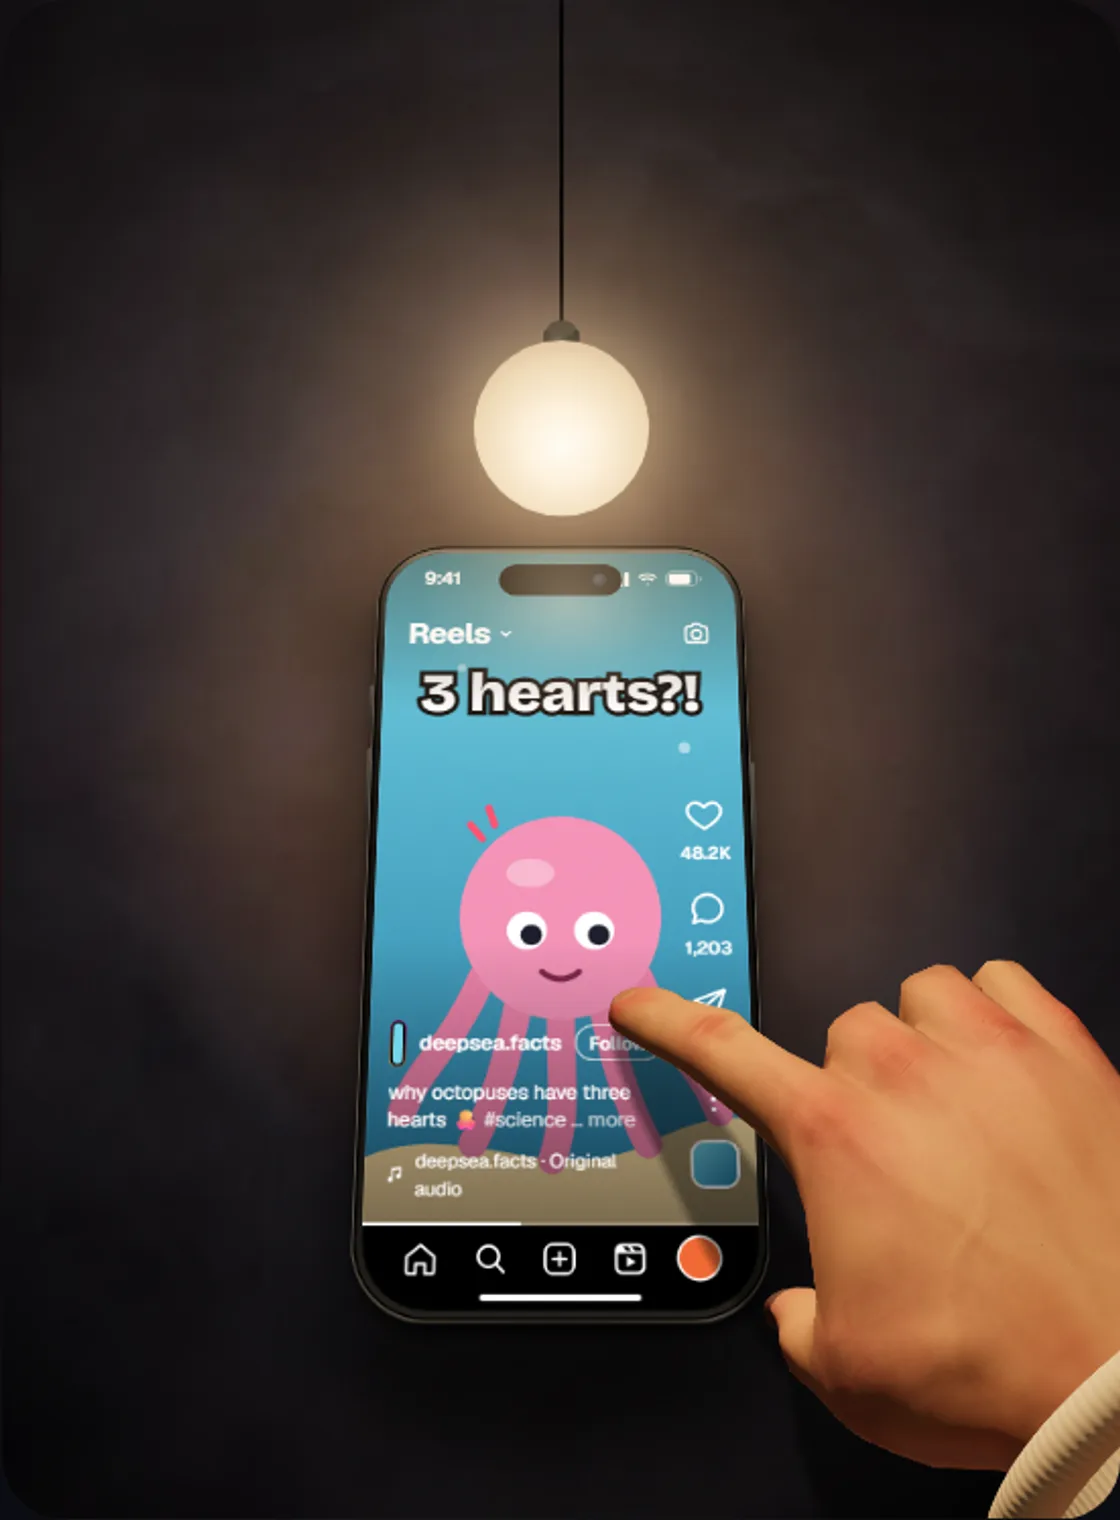
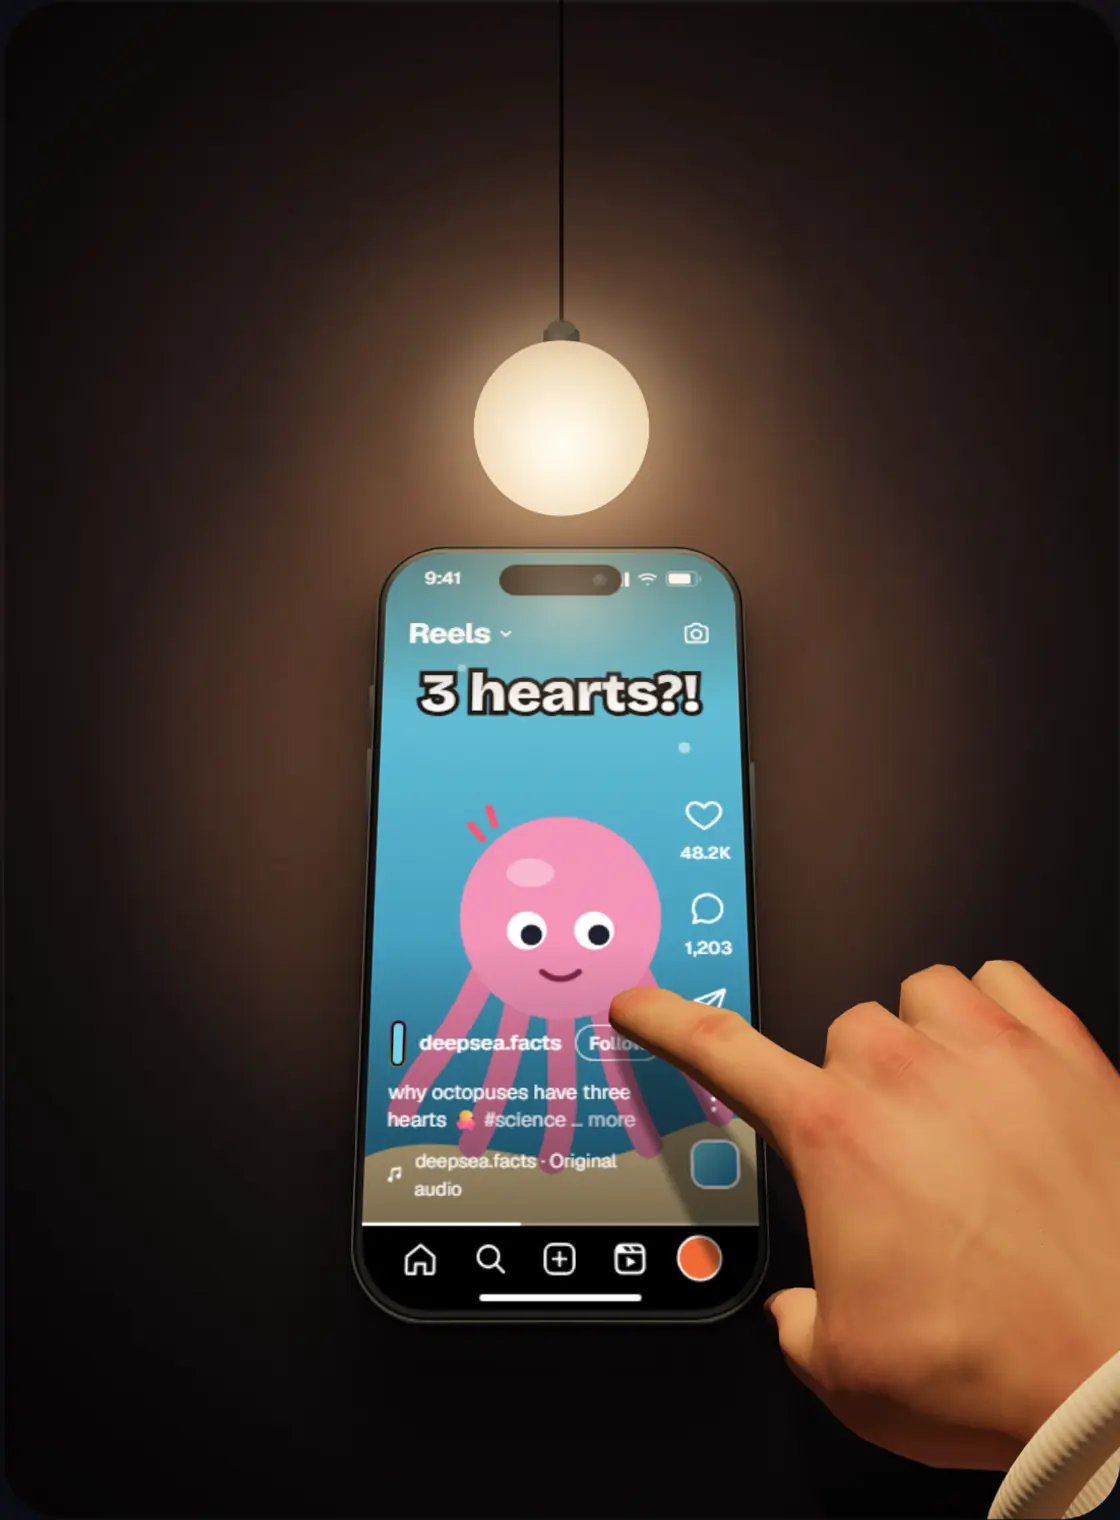
Refactor LampScene and Table components for improved background handling and lighting effects
- Updated LampScene to use a new background class and removed redundant background styles.
- Refactored Table component to simplify the lighting pool logic and removed static textures, enhancing the dynamic lighting effect.
- Added new hero background images in JPG and WEBP formats to support the updated design.

diff --git a/src/components/hero/lamp-scene/Table.tsx b/src/components/hero/lamp-scene/Table.tsx
@@ -1,27 +1,27 @@
 /**
- * SOURCE OF TRUTH KEYWORDS: Table, ONE_PLANE_FOR_THE_WHOLE_SCENE
+ * SOURCE OF TRUTH KEYWORDS: Table, LIGHT_IS_THE_ONLY_THING_LEFT, poolRef,
+ *   lampSceneBg, hero-bg, vignette, light pool
  *
- * WHAT:  The room the scene happens in: a dark mottled tabletop seen at a
- *        slant, the pool of warm light the lamp throws on it, and the vignette
- *        that closes the rest of the room down to black.
+ * WHAT:  What the lamp DOES to the room: the pool of warm light it throws,
+ *        which slides as the lamp swings, and the vignette that closes the
+ *        rest of the card down to black.
  *
- * WHY:   ONE_PLANE_FOR_THE_WHOLE_SCENE. The surface is a flat image rotated
- *        33° in the SAME perspective context the phone uses, so it recedes on
- *        exactly the plane the phone is lying on. A tabletop faked with a
- *        gradient would have to be re-faked every time the phone moved; this
- *        one is simply the surface, and everything else in the scene is
- *        positioned against it.
+ * WHY:   LIGHT_IS_THE_ONLY_THING_LEFT. The room itself is no longer built
+ *        here. It used to be a mottled texture rotated into the phone's 33°
+ *        plane plus a radial haze faking the air around the bulb — two
+ *        static fakes of a lit room, maintained by hand. The room is now one
+ *        photographic backdrop on the card itself (`.lampSceneBg`, see
+ *        globals.css), so everything static left this file and only the
+ *        MOVING light stayed.
  *
- *        THE_CARD_IS_NOT_A_ROOM. It used to be walnut planks, which read as a
- *        photograph of a table pasted behind the UI and fought the black page
- *        around it. The base is now the page's own `--background`, so the card
- *        has no edge of its own, and the only thing on it is the mottled
- *        texture catching the lamp.
+ *        The pool has to be a layer rather than part of the backdrop because
+ *        it TRACKS the lamp — it is the scene's largest cue that the globe is
+ *        a light source, and it moves 2.1× the globe's own travel, which is
+ *        the parallax of something lit from above. A baked-in pool would sit
+ *        still while the lamp swung over it and kill the illusion outright.
  *
- *        The light pool is a separate layer rather than part of the texture
- *        because it has to TRACK the lamp — it is the scene's largest cue
- *        that the globe is a light source, and it moves 2.1× the globe's own
- *        travel, which is the parallax of something lit from above.
+ *        Both layers are `screen` / pure black so they only ever add light or
+ *        take it away. Neither paints a colour of its own over the backdrop.
  * WHERE: The back two layers of LampScene, under the phone.
  */
 
@@ -30,55 +30,9 @@ import * as React from "react";
 export function Table({ poolRef }: { poolRef: React.Ref<HTMLDivElement> }) {
   return (
     <>
-      <div
-        aria-hidden="true"
-        className="absolute inset-0"
-        style={{
-          perspective: "1400px",
-          perspectiveOrigin: "280px 170px",
-          background: "var(--background)",
-        }}
-      >
-        {/* TEXTURE_IS_ON_THE_PLANE. The tabletop itself — one mottled image
-            rotated into the same 33° plane the phone lies on, so it is
-            foreshortened WITH the phone rather than floating flat behind it.
-            It is dark by design: the lamp's pool below is what finds the
-            mottling, so the surface reads as lit rather than as a picture of
-            a surface. */}
-        <div
-          aria-hidden="true"
-          className="absolute"
-          style={{
-            left: -520,
-            top: -700,
-            width: 1600,
-            height: 1900,
-            transformOrigin: "800px 1158px",
-            transform: "rotateX(33deg)",
-            background:
-              "url(/hero/table-surface.webp) 0 0/1600px 2000px no-repeat",
-          }}
-        />
-      </div>
-
-      {/* AIR_AROUND_THE_BULB. A soft warm haze centred on the globe, in the
-          card's own flat plane rather than the table's. With the planks gone
-          the bulb had nothing above the table to light, so the top third went
-          dead black and the lamp read as a sticker; this is the light in the
-          air around it. `screen`, so it only ever adds. */}
-      <div
-        aria-hidden="true"
-        className="absolute inset-0"
-        style={{
-          mixBlendMode: "screen",
-          background:
-            "radial-gradient(circle at 50% 27%, rgba(255,200,140,0.18), rgba(255,180,110,0.05) 38%, transparent 62%)",
-        }}
-      />
-
       {/* The pool of lamplight on the table. `screen` so it ADDS to the
-          surface instead of painting over it, which is the difference between
-          a lit table and a table with a bright shape on it. */}
+          backdrop instead of painting over it, which is the difference
+          between a lit table and a table with a bright shape on it. */}
       <div
         ref={poolRef}
         aria-hidden="true"
@@ -101,12 +55,19 @@ export function Table({ poolRef }: { poolRef: React.Ref<HTMLDivElement> }) {
         />
       </div>
 
+      {/* The card's own falloff to black. Lighter than it was (0.8 → 0.72):
+          the backdrop arrives with a vignette already in it, and the old one
+          stacked on top crushed the corners to flat black and ate the
+          image's edges. It cannot go much lighter than this, though — the
+          backdrop's corners are a warm black and the page's are a cool one,
+          and without the falloff reaching them the card shows as a faintly
+          brown rectangle on the page. */}
       <div
         aria-hidden="true"
         className="absolute inset-0"
         style={{
           background:
-            "radial-gradient(ellipse 78% 66% at 50% 46%, rgba(0,0,0,0) 40%, rgba(0,0,0,0.8) 100%)",
+            "radial-gradient(ellipse 78% 66% at 50% 46%, rgba(0,0,0,0) 42%, rgba(0,0,0,0.72) 100%)",
         }}
       />
     </>

diff --git a/src/app/globals.css b/src/app/globals.css
@@ -2899,6 +2899,52 @@ html:has([data-app-banner]) {
   }
 }
 
+/* SOURCE OF TRUTH KEYWORDS: lampSceneBg, hero-bg, HERO_BG_IS_ONE_IMAGE,
+ *   LampScene, Table, image-set, lamp scene backdrop
+ *
+ * WHAT:  The hero scene card's backdrop — one image of a warm glow in a dark
+ *        room, sized to cover the card.
+ *
+ * WHY:   HERO_BG_IS_ONE_IMAGE. The card used to build its room out of CSS: a
+ *        mottled texture rotated into the table's 33° plane, plus a radial
+ *        haze faking the air around the bulb. Two fakes that had to be
+ *        re-tuned against each other every time anything in the scene moved.
+ *        The image already IS a lit room, so the scene only has to sit in it.
+ *
+ *        It lives in CSS rather than an inline style because the fallback
+ *        chain below needs `@supports`, which a style prop cannot express.
+ *        The plain `url()` is what every browser gets; `image-set` only
+ *        overrides it where the browser can parse it; and `--background`
+ *        under both is what shows if neither image loads.
+ *
+ *        The glow sits ~30% down the image and the lamp's globe ~28% down
+ *        the card, so this lands the two on each other: the card reads as
+ *        lit BY the lamp rather than as a lamp pasted onto a picture.
+ * WHERE: The scene root in src/components/hero/lamp-scene/LampScene.tsx. */
+.lampSceneBg {
+  background-color: var(--background);
+  background-image: url("/hero-bg.webp");
+  background-position: center 30%;
+  background-size: cover;
+  background-repeat: no-repeat;
+}
+
+/* The negotiated form, behind '@supports' rather than stacked on the rule
+   above: Lightning CSS deletes a plain 'url()' sitting directly in front of
+   an 'image-set()' as redundant, which would take the fallback with it. In
+   its own rule the fallback survives, and only a browser that can parse
+   'image-set' ever overrides it — every one of which can also decode the
+   webp, so the jpg is there for completeness rather than for a browser we
+   expect to meet. */
+@supports (background-image: image-set(url("/hero-bg.webp") type("image/webp"))) {
+  .lampSceneBg {
+    background-image: image-set(
+      url("/hero-bg.webp") type("image/webp"),
+      url("/hero-bg.jpg") type("image/jpeg")
+    );
+  }
+}
+
 /* SOURCE OF TRUTH KEYWORDS: lampScene, reelBob, reelWave, reelSway,
  * lampSwingBtn, lampHitBtn, THE_REELS_ARE_VIDEO, LAMP_SCENE_MOTION
  *

diff --git a/src/components/hero/lamp-scene/LampScene.tsx b/src/components/hero/lamp-scene/LampScene.tsx
@@ -594,15 +594,11 @@ export default function LampScene({ className }: LampSceneProps) {
           onPointerDown={onPointerDown}
           onPointerMove={onPointerMove}
           onPointerLeave={onPointerLeave}
-          className="lampScene relative isolate overflow-hidden text-white"
+          className="lampScene lampSceneBg relative isolate overflow-hidden text-white"
           style={{
             width: SCENE_W,
             height: SCENE_H,
             borderRadius: 30,
-            /* The same colour as the page outside the card, so the card has
-               no background of its own — only the lamp, the surface it lights
-               and the phone on it. */
-            background: "var(--background)",
             boxShadow: "inset 0 0 0 1px rgba(255,255,255,0.08)",
             transformOrigin: "top left",
           }}

diff --git a/design.md b/design.md
@@ -286,7 +286,7 @@ can play with.
 - **It is an ILLUSTRATION, so it does not use theme tokens.** This is the one
   deliberate exception to §2's "never hardcode theme colours": the scene is a
   picture of a dark room lit by a warm bulb, the way a photograph would be. It
-  does not invert with the theme, and every colour in it (the table surface,
+  does not invert with the theme, and every colour in it (the backdrop image,
   lamp `#ffcf96`, the phone's metal gradients) is a property of the depicted
   object, not of the UI. Nothing outside the 560×760 frame does this.
 - **Sizing.** The scene is laid out at 560×760 and `scale()`d to its column —
@@ -295,20 +295,30 @@ can play with.
   560/760` and `overflow: hidden`, so the box is reserved on the first paint
   (no layout shift) and the full-size layout box cannot push the grid column
   wider than its share.
-- **The card has no background of its own.** Its base is `var(--background)`,
-  the same colour as the page outside it, so the scene reads as a lit object
-  floating on the page rather than a photograph in a frame. The walnut planks
-  this replaces (`walnut.webp`, removed 2026-11-25) fought the black page and
-  made the card an obvious rectangle — **do not reintroduce a surround.**
-- **The tabletop is one layer:** `table-surface.webp`, a dark mottled image
-  rotated into the same 33° plane the phone lies on, so it is foreshortened
-  *with* the phone. It is deliberately dark (mean ~37/255) — the lamp's pool
-  and the warm haze are what find the mottling, so the surface reads as lit
-  rather than as a picture of a surface.
-- **Two `screen` layers do the lighting**: a soft warm haze centred on the
-  globe (in the card's flat plane — with the planks gone the bulb had nothing
-  above the table to light, and the top third went dead black), and the light
-  pool on the table itself, which tracks the lamp.
+- **The card's backdrop is one image, not CSS.** `.lampSceneBg` in
+  `globals.css` puts `/hero-bg.webp` on the scene root: a photographic dark
+  room with a warm glow ~30% down, `cover`, positioned `center 30%` so the
+  glow sits on the lamp's globe (~28% down the card). `--background` is under
+  it, and an `@supports` block upgrades it to `image-set()` with
+  `/hero-bg.jpg` as the typed fallback.
+  - It is in CSS rather than an inline style for a reason worth keeping:
+    inline styles are not processed by Lightning CSS, and Lightning CSS
+    **deletes a plain `url()` that sits directly in front of an
+    `image-set()`** in the same rule as redundant — which silently takes the
+    fallback with it. The `@supports` block is what makes the two coexist.
+  - This replaced two CSS fakes of a lit room, both removed 2026-11-26:
+    `table-surface.webp` (a dark mottled image rotated into the phone's 33°
+    plane) and a radial "warm haze" layer. Each had to be re-tuned against
+    the other whenever anything moved. **Do not rebuild the room in CSS** —
+    change the image.
+  - Before that it was walnut planks (`walnut.webp`, removed 2026-11-25),
+    which fought the black page and made the card an obvious rectangle.
+- **Only MOVING light is still drawn in CSS** (`Table.tsx`): the lamp's pool,
+  which tracks the globe at 2.1× its travel and therefore cannot be baked
+  into the backdrop, and the card's own falloff to black. The falloff is
+  lighter than it was (`0.72` at the edge, starting at 42%, down from `0.8` at 40%) because the
+  backdrop arrives with a vignette already in it and stacking the old one on
+  top crushed the corners flat.
 - **Loading — NOTHING_POPS_IN.** three.js and the hand model are dynamically
   imported behind an IntersectionObserver, so they are absent from the landing
   route's initial JS entirely. The scene then stays at `opacity: 0` behind the
